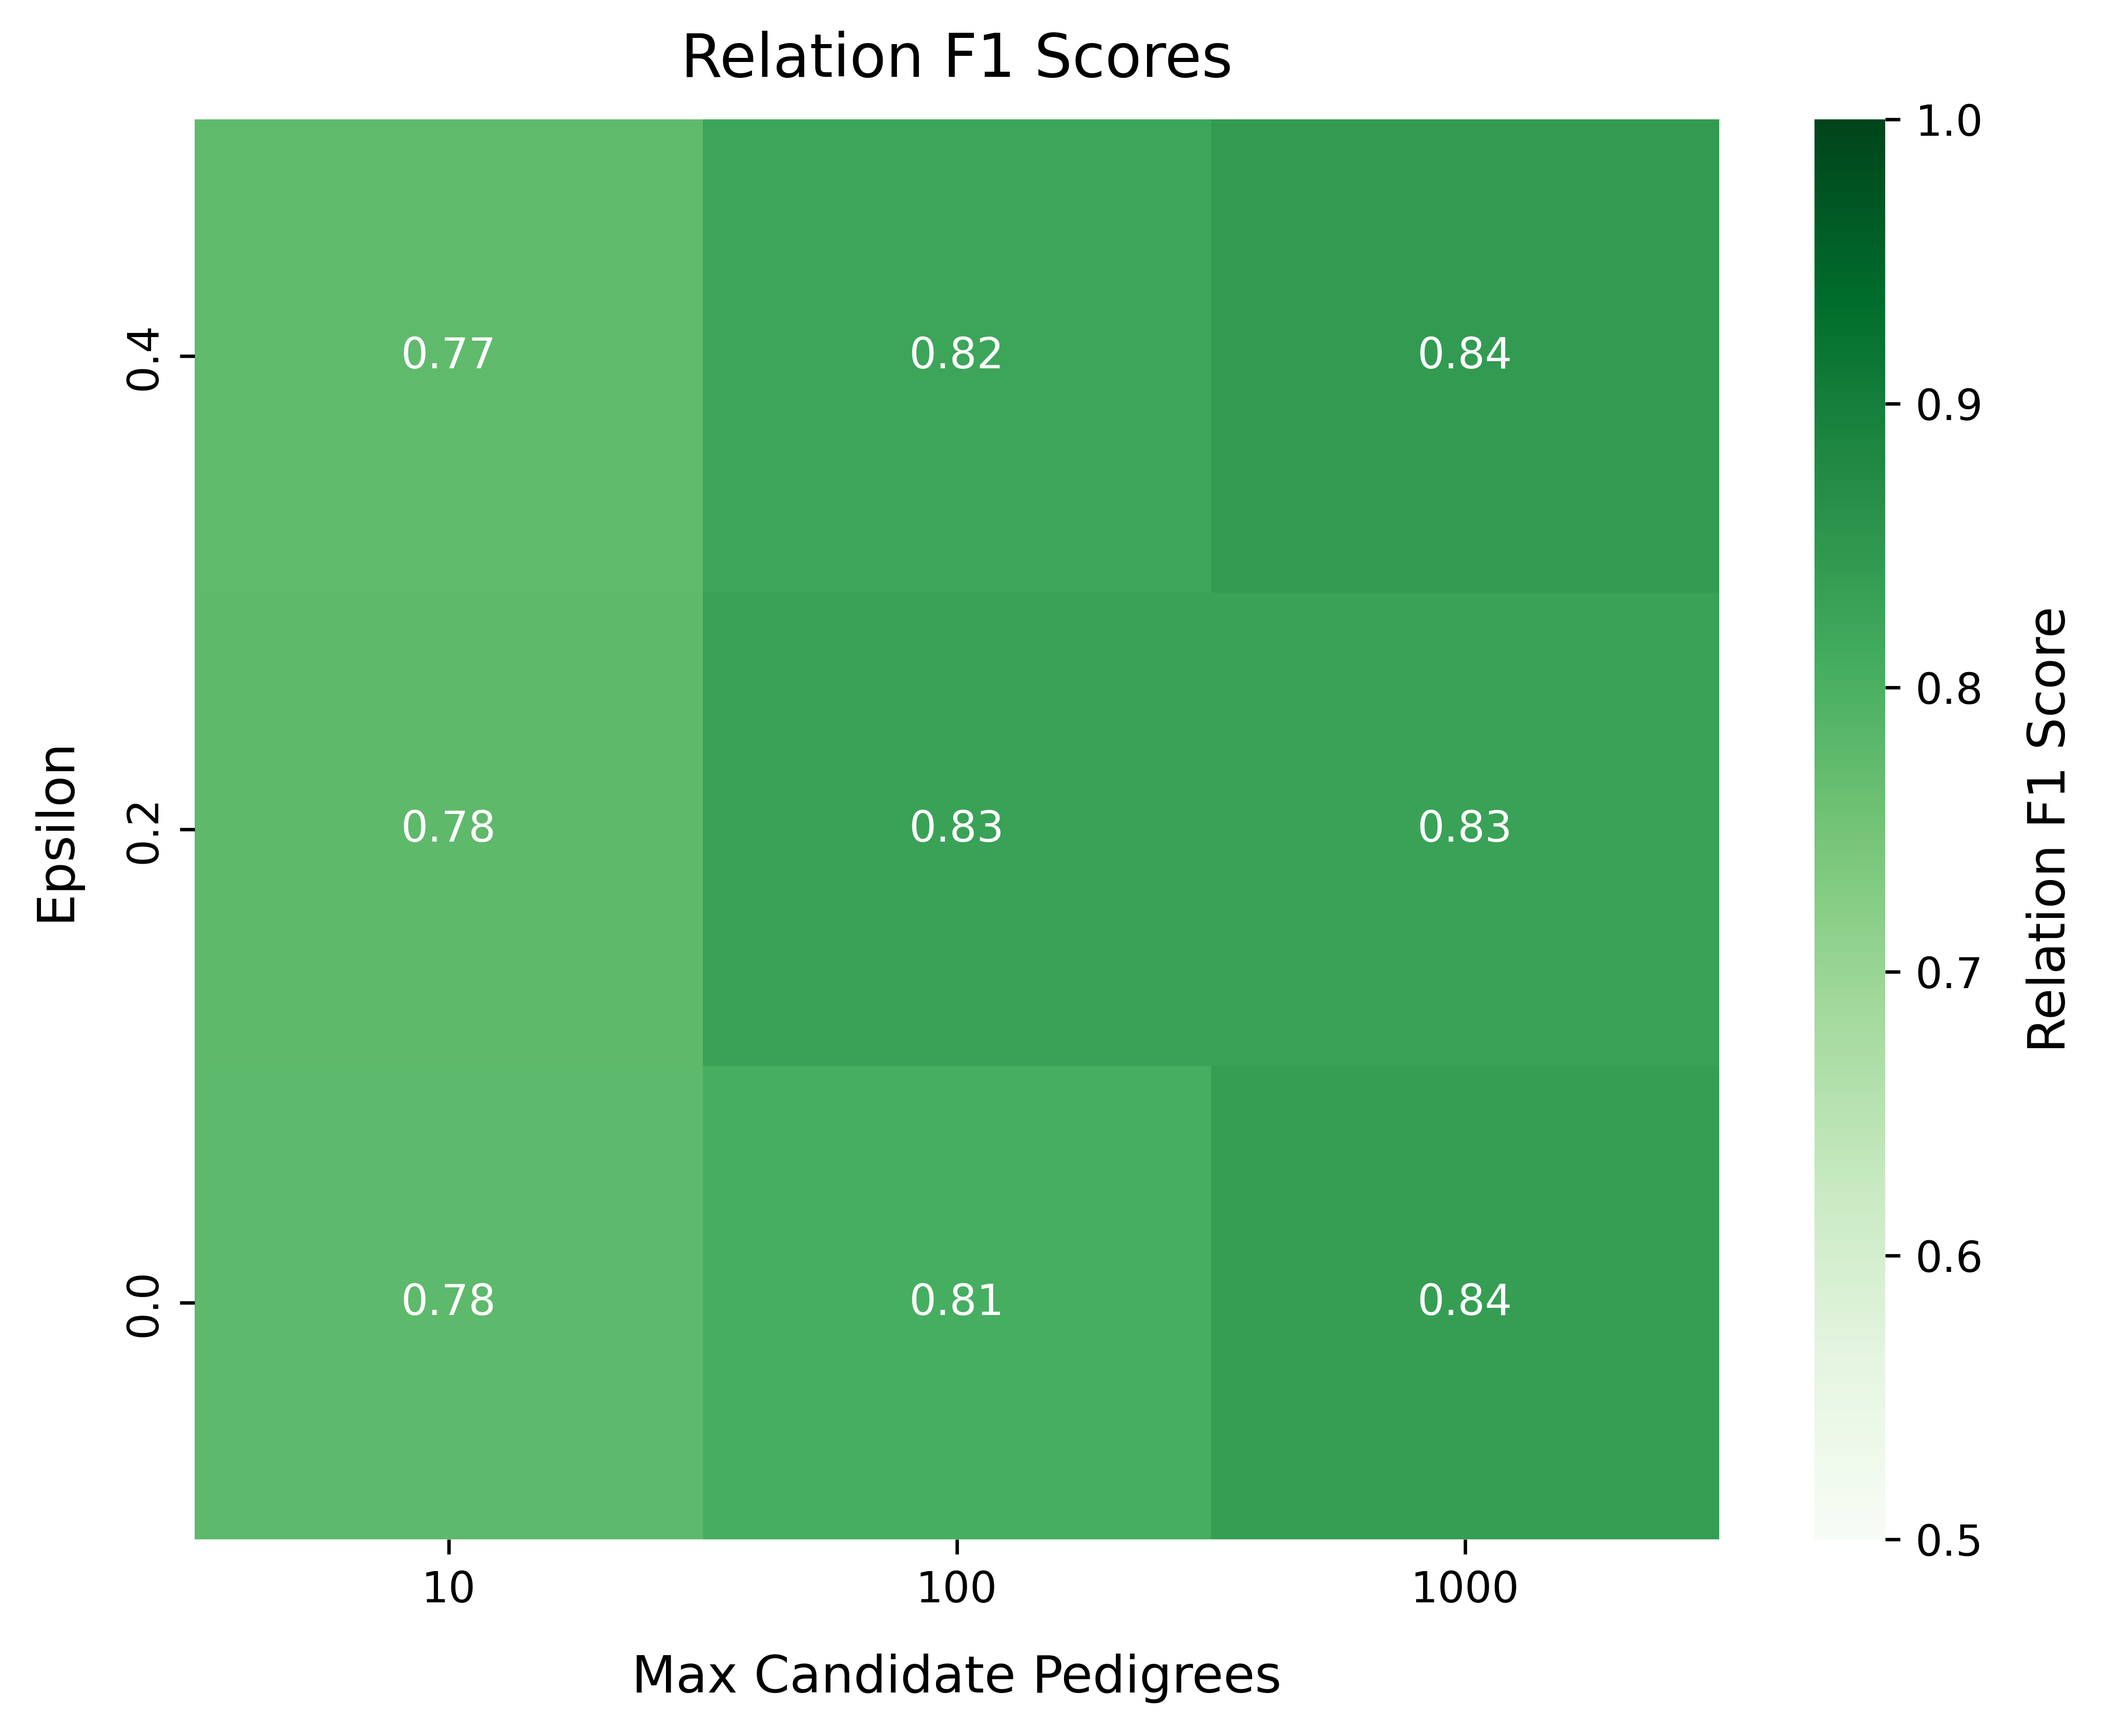
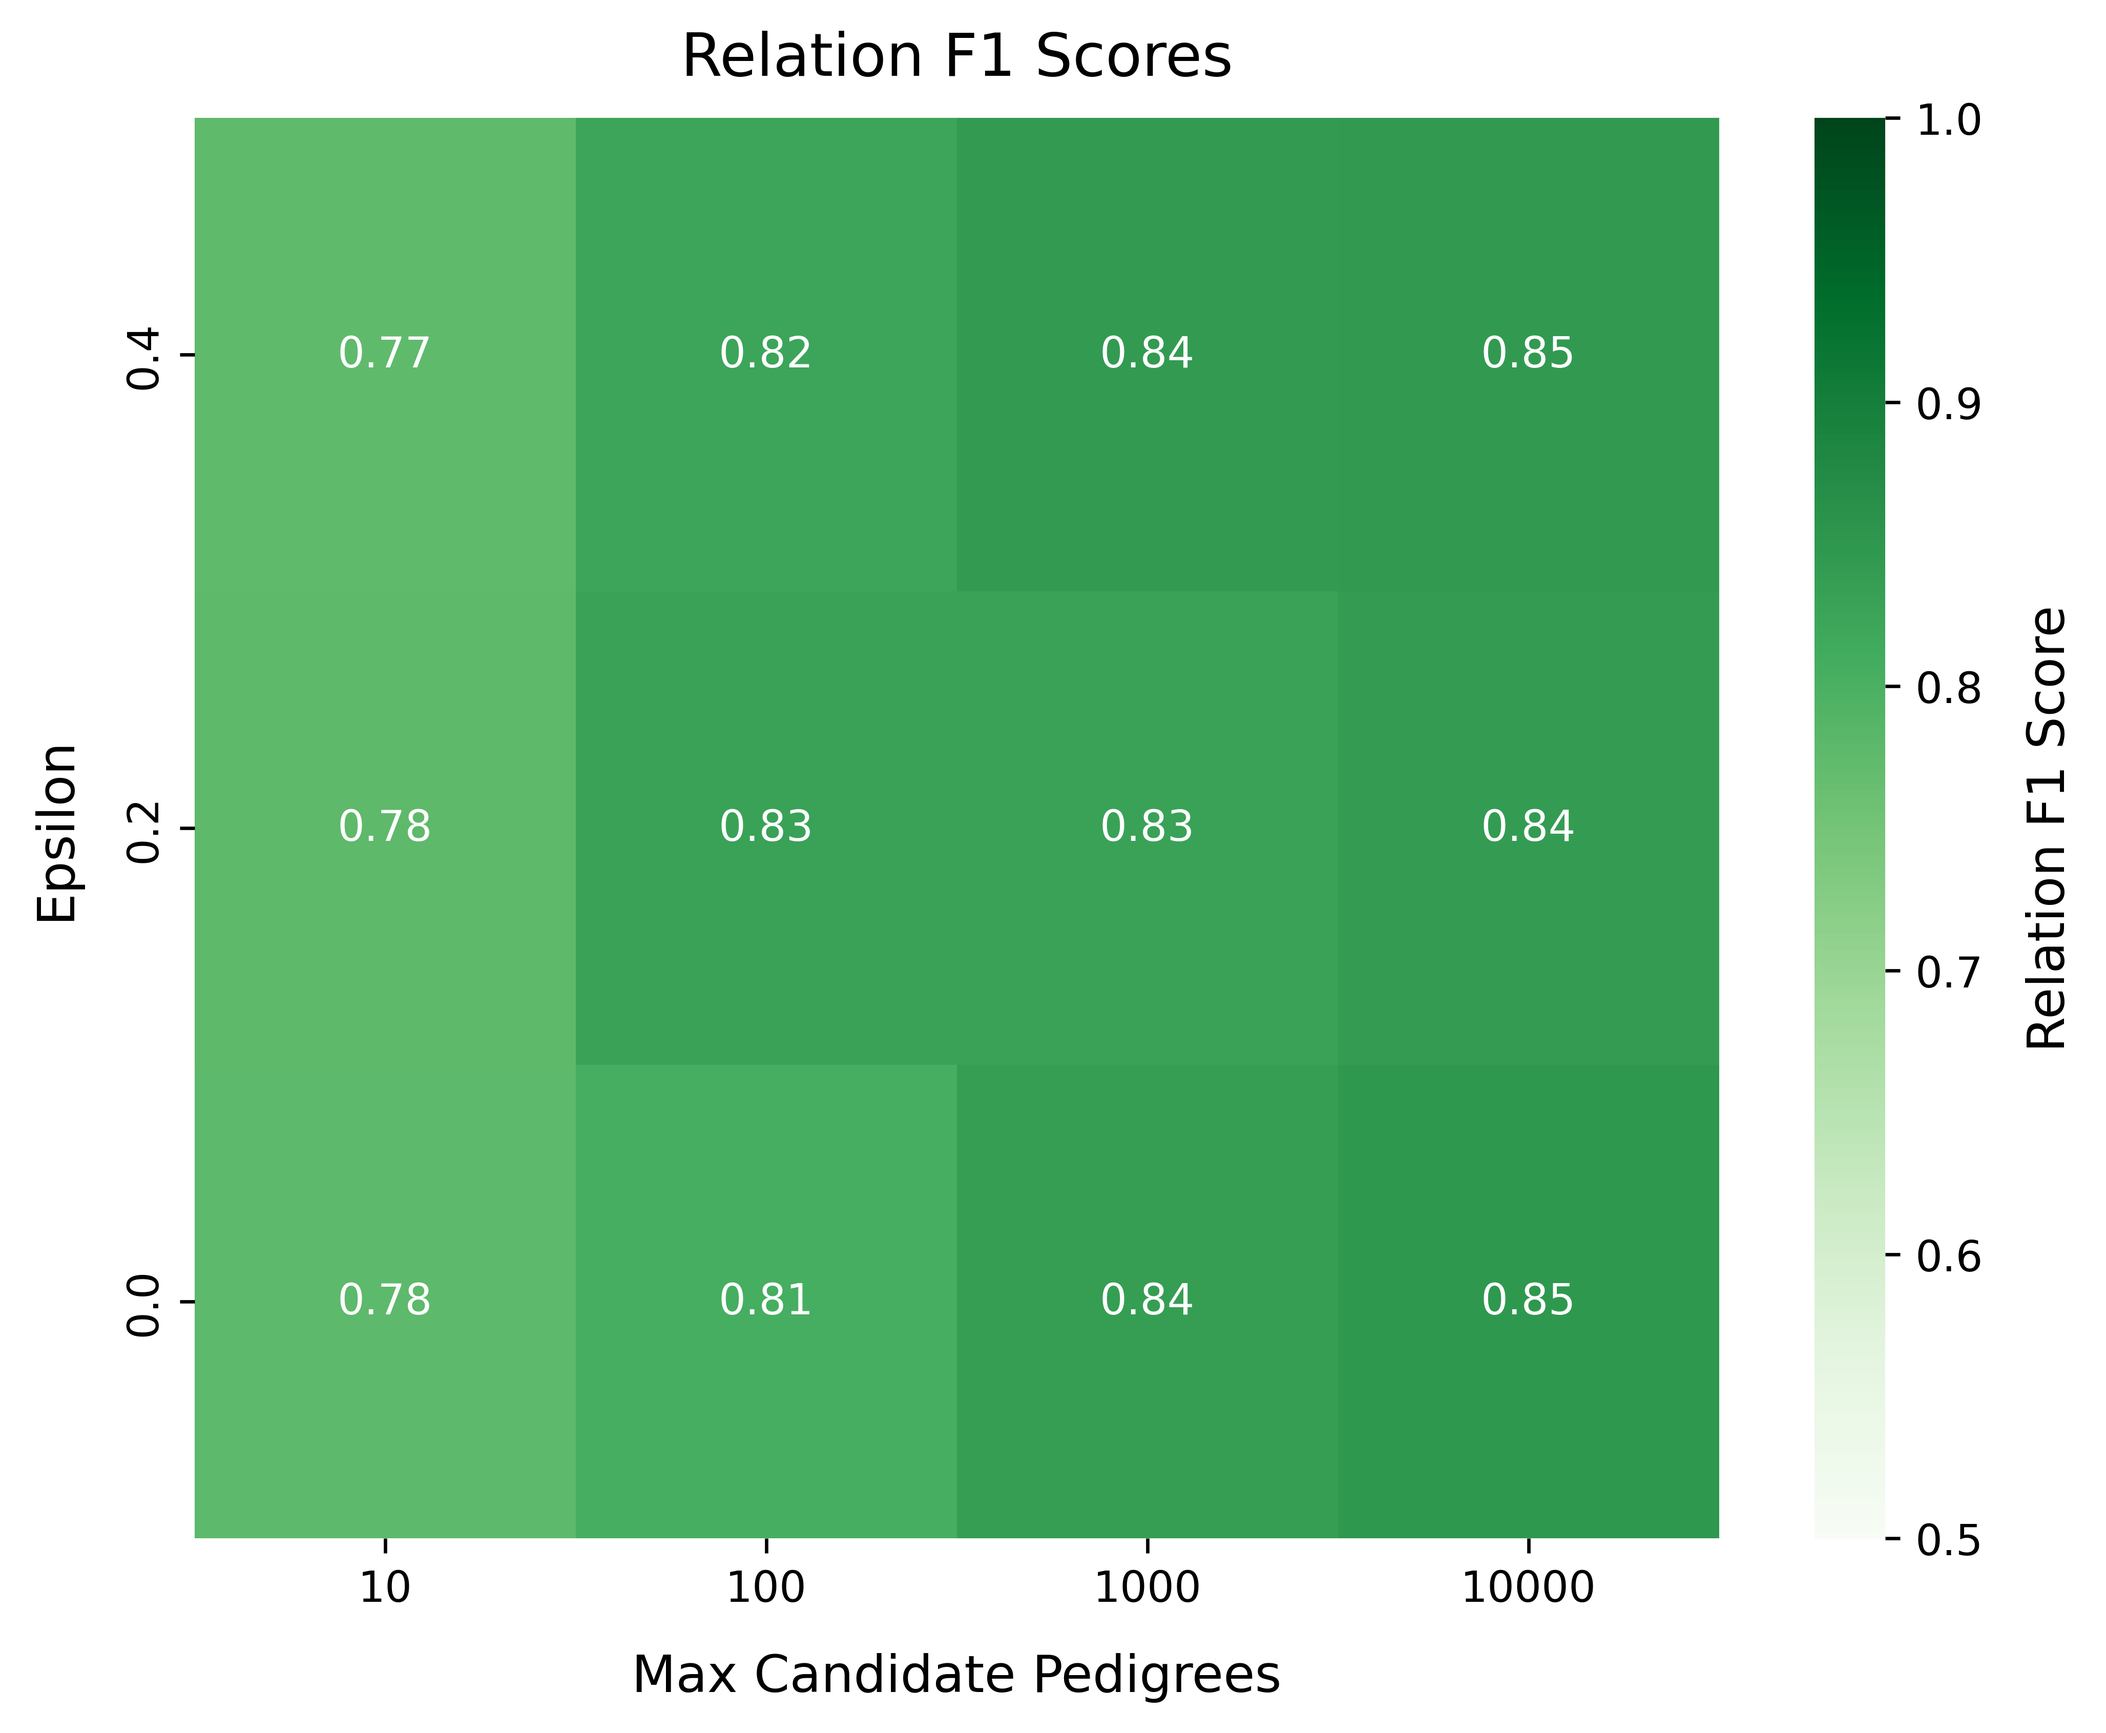
Include 10000-sample simulation experiment

diff --git a/benchmarks/simulations/run_sampling_experiment.py b/benchmarks/simulations/run_sampling_experiment.py
@@ -66,7 +66,7 @@ def run_experiment(
 
 
 def main():
-    for max_candidate_pedigrees in [10, 100, 1000]:
+    for max_candidate_pedigrees in [10, 100, 1000, 10000]:
         for epsilon in [0.0, 0.2, 0.4]:
             run_experiment(
                 p_mask_node=0.4,
